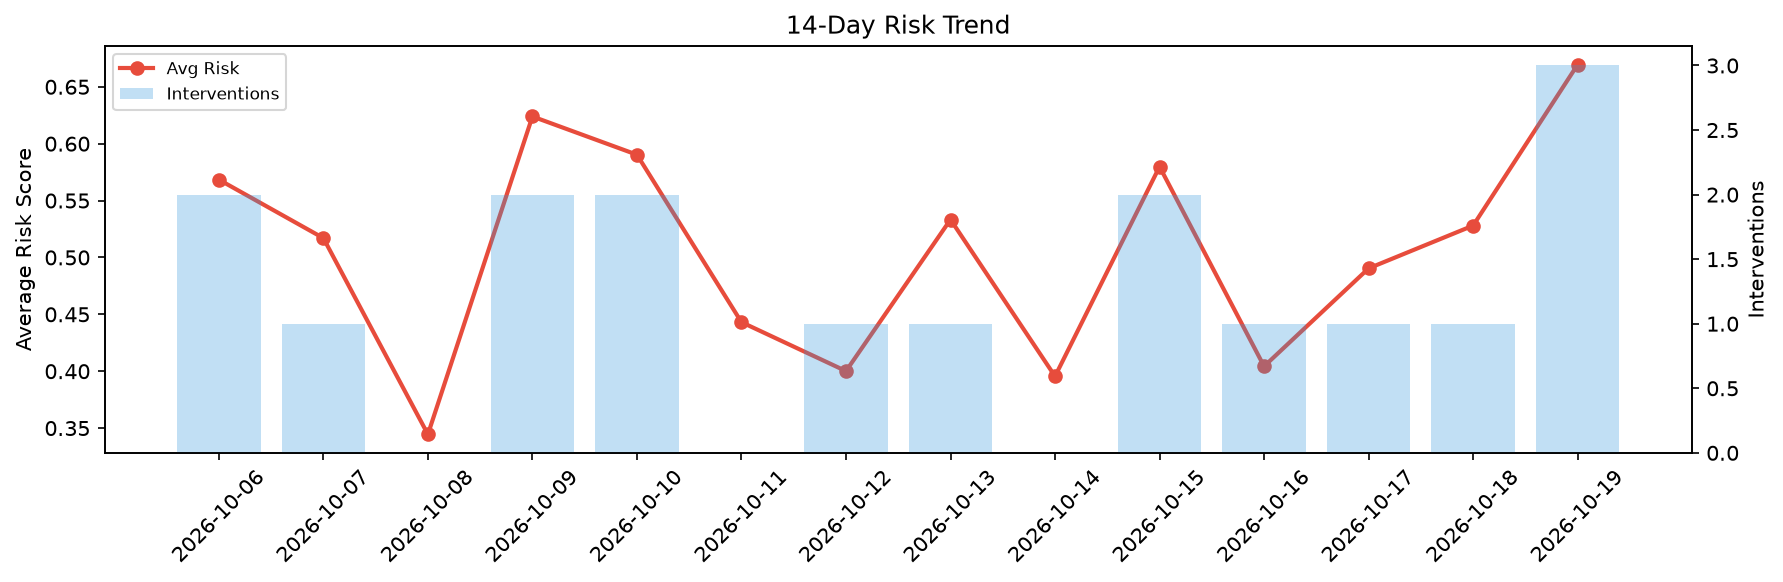
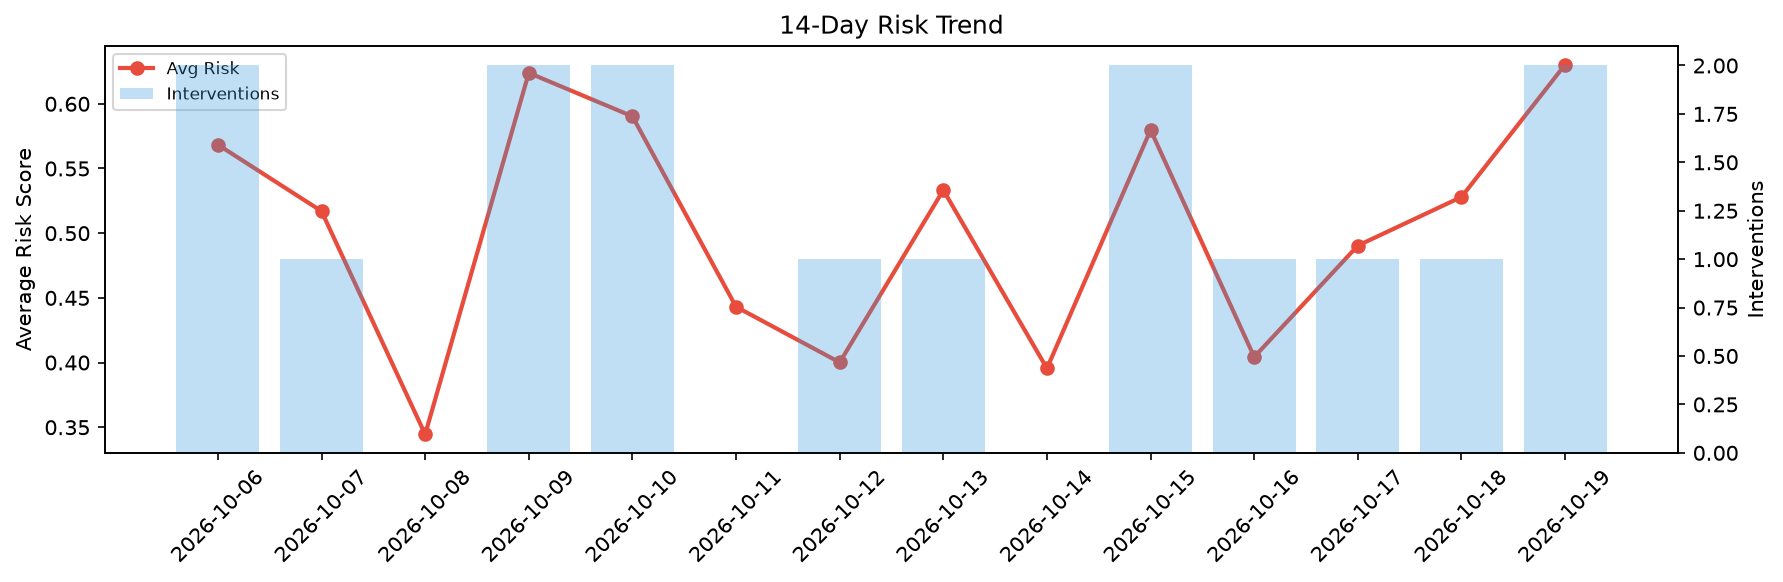
agent-improvement: daily cycle 2026-10-19T19:57

diff --git a/logs/2026-10-19.md b/logs/2026-10-19.md
@@ -1,6 +1,6 @@
 # Agent Improvement Report — 2026-10-19
 
-**Cycle ID:** `dc364e4d` | **Avg Risk:** 0.6695 | **Interventions:** 3/4
+**Cycle ID:** `a6a7d3d2` | **Avg Risk:** 0.6303 | **Interventions:** 2/4
 
 ![Dashboard](2026-10-19_dashboard.png)
 
@@ -10,18 +10,18 @@
 
 | Domain | Risk Score | Decision | Alerts |
 |--------|-----------|----------|--------|
-| code_review | 0.802 | intervene | duplication |
-| incident_response | 0.4623 | monitor | none |
-| data_pipeline | 0.602 | intervene | schema_drift |
-| deployment | 0.8119 | intervene | rollback_rate, canary_error, latency_p99 |
+| code_review | 0.4393 | monitor | none |
+| incident_response | 0.5485 | monitor | blast_radius, mttr |
+| data_pipeline | 0.608 | intervene | freshness |
+| deployment | 0.9256 | intervene | rollback_rate, canary_error, latency_p99 |
 
 ## Delta vs Yesterday
 
 | Domain | Today | Yesterday | Change |
 |--------|-------|-----------|--------|
-| code_review | 0.802 | 0.4553 | 📈 76.1% |
-| incident_response | 0.4623 | 0.6343 | 📉 -27.1% |
-| data_pipeline | 0.602 | 0.4349 | 📈 38.4% |
-| deployment | 0.8119 | 0.5873 | 📈 38.2% |
+| code_review | 0.4393 | 0.4553 | 📉 -3.5% |
+| incident_response | 0.5485 | 0.6343 | 📉 -13.5% |
+| data_pipeline | 0.608 | 0.4349 | 📈 39.8% |
+| deployment | 0.9256 | 0.5873 | 📈 57.6% |
 
 **Refinement:** `{'adjustment': 'tighten_thresholds', 'trend': 'degrading', 'window': 4}`
